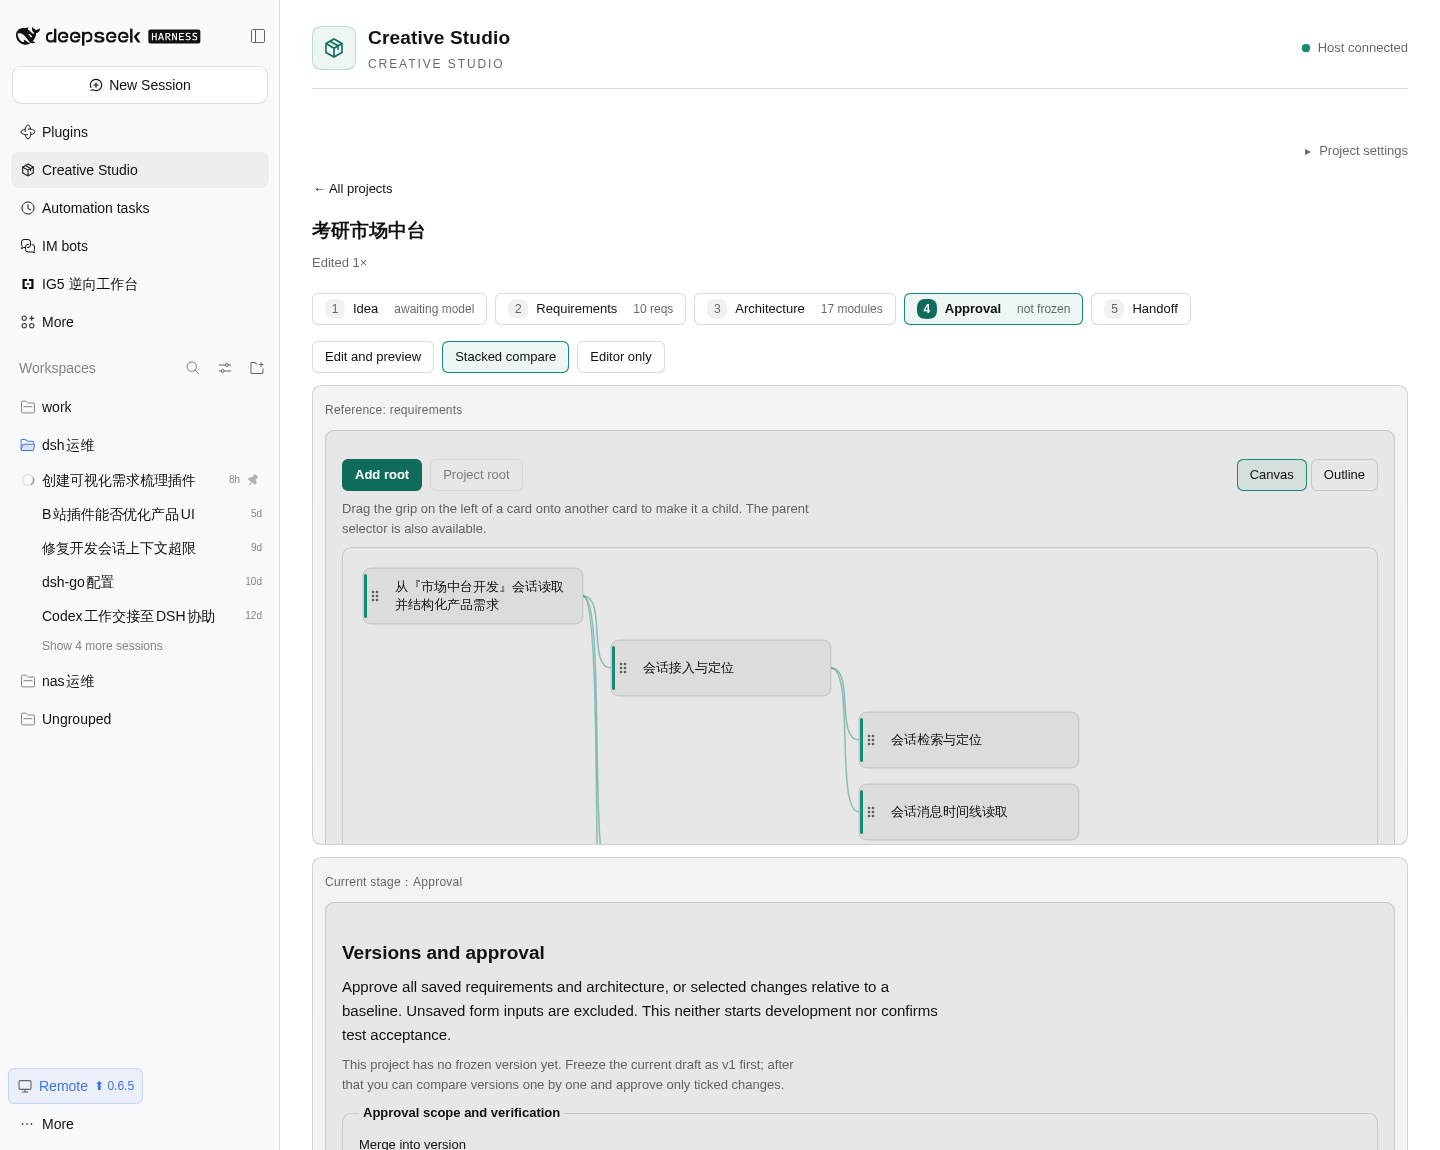
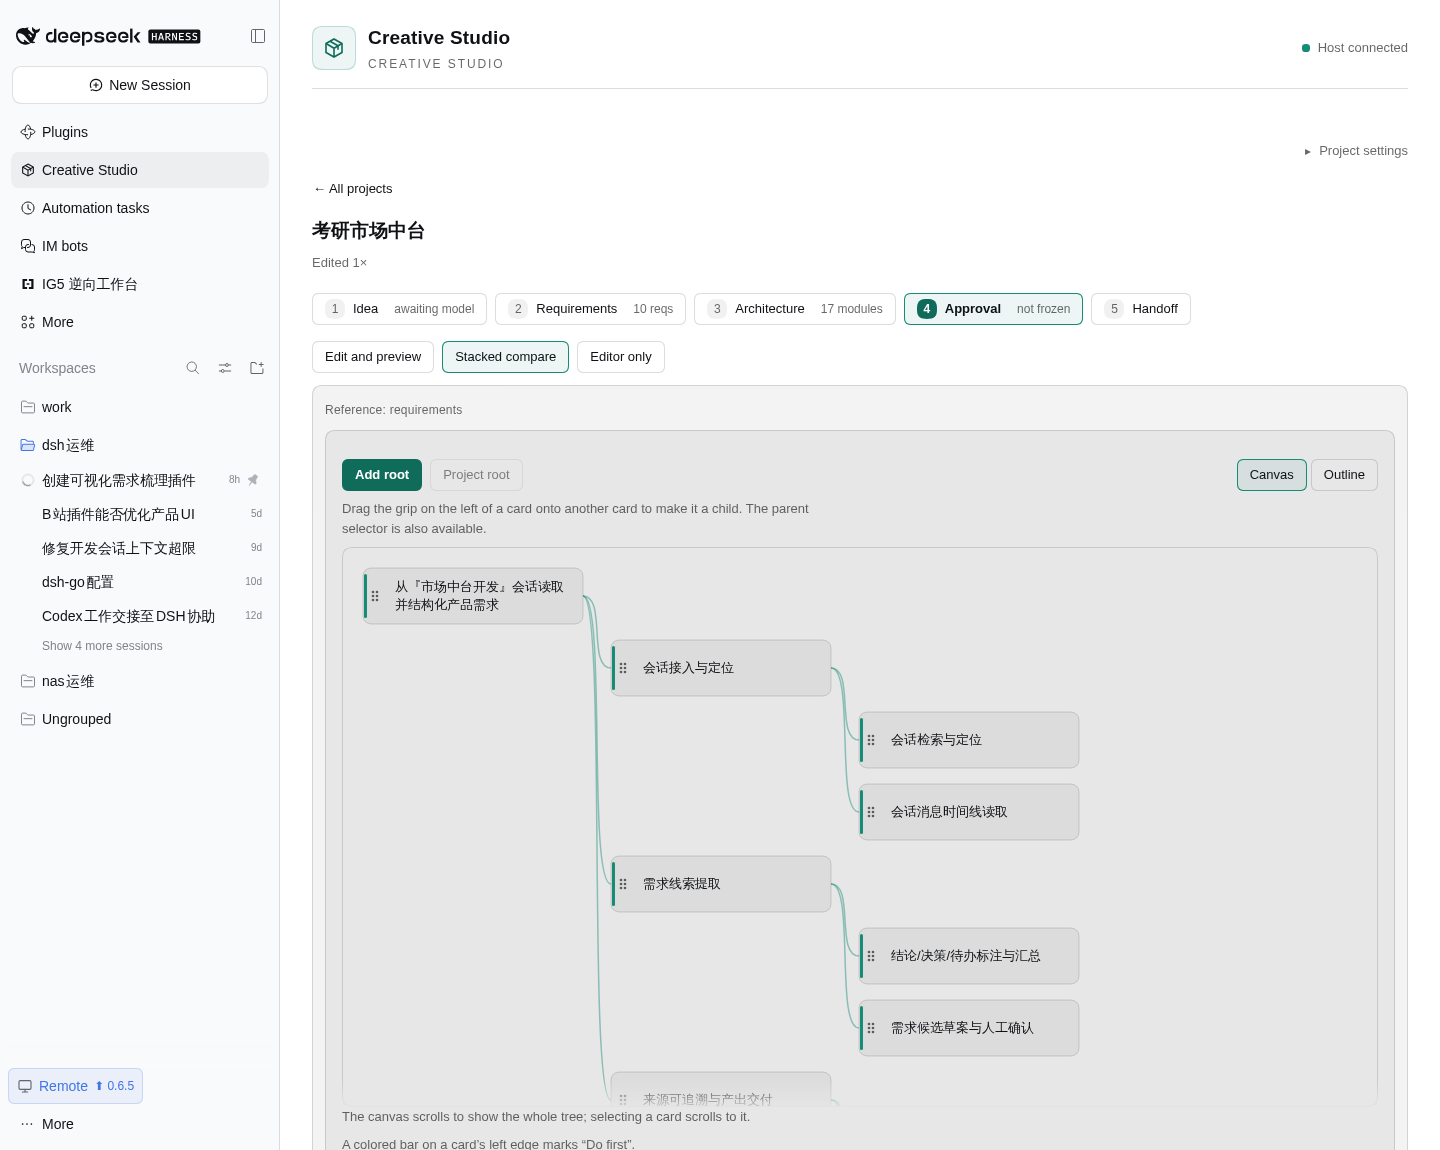
fix: 对照模式两个面板不再限高到 40vh（会把画布从中间裁断），改由页面滚动

diff --git a/src/client/app.tsx b/src/client/app.tsx
@@ -229,7 +229,7 @@ const styles = `
 .creative-studio-root .cs-block{padding:12px 16px;border:1px solid var(--cs-border);border-radius:12px;background:var(--cs-surface);margin:0 0 12px}
 .creative-studio-root .cs-block:last-child{margin-bottom:0}
 .creative-studio-root .cs-block>h4{margin:0 0 8px}
-.creative-studio-root .cs-pane-scroll{max-height:40vh;overflow:auto}.creative-studio-root .cs-pane-single{max-height:none;overflow:visible}
+.creative-studio-root .cs-pane-scroll{max-height:none;overflow:visible}.creative-studio-root .cs-pane-single{max-height:none;overflow:visible}
 .creative-studio-root .cs-checks{display:flex;flex-wrap:wrap;gap:8px 16px;margin:0 0 12px}
 .creative-studio-root .cs-checks>label{display:inline-flex;align-items:center;gap:8px;margin:0;min-height:24px}
 .creative-studio-root .cs-visually-hidden{position:absolute;width:1px;height:1px;padding:0;margin:-1px;overflow:hidden;clip:rect(0 0 0 0);white-space:nowrap;border:0}
